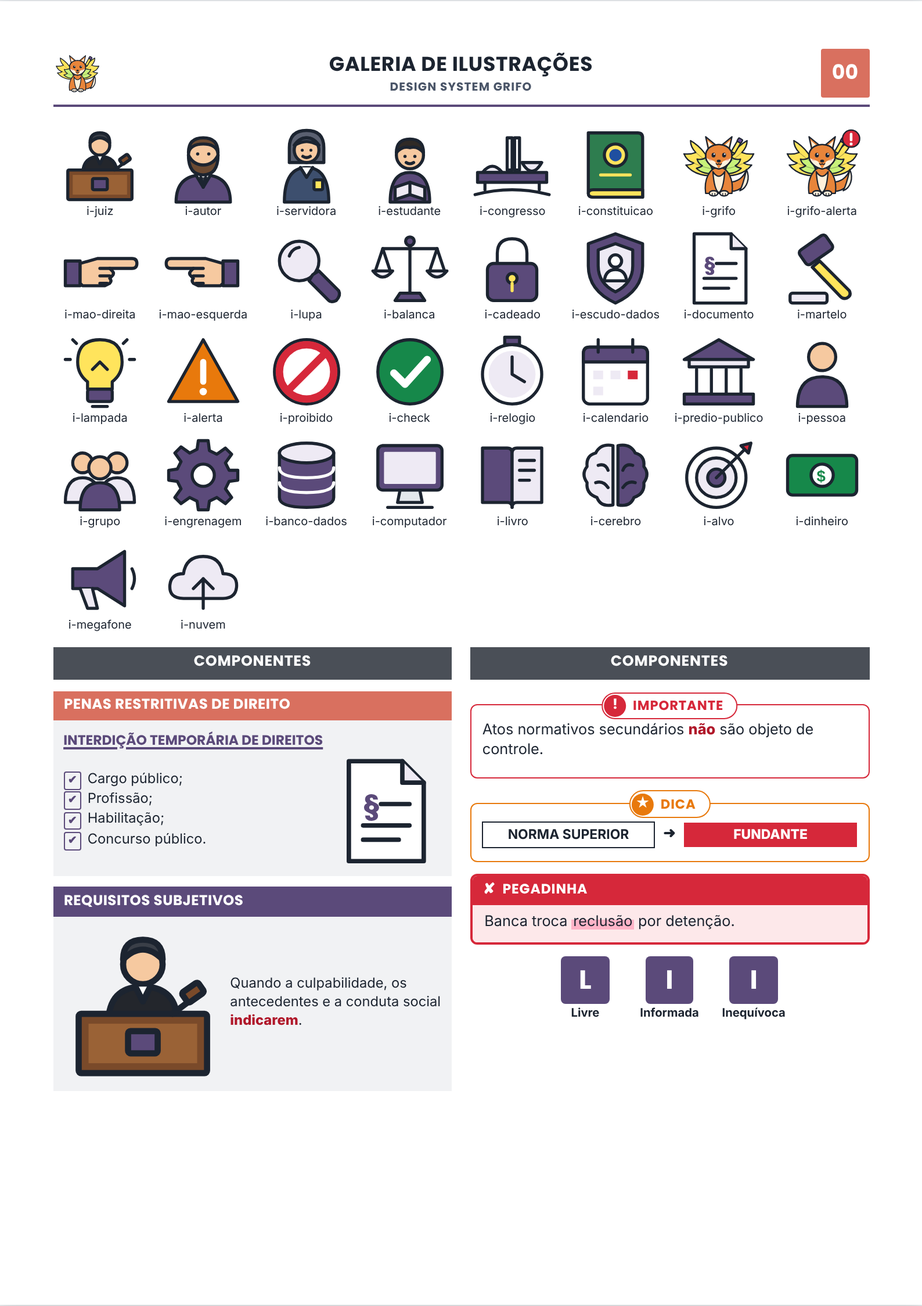
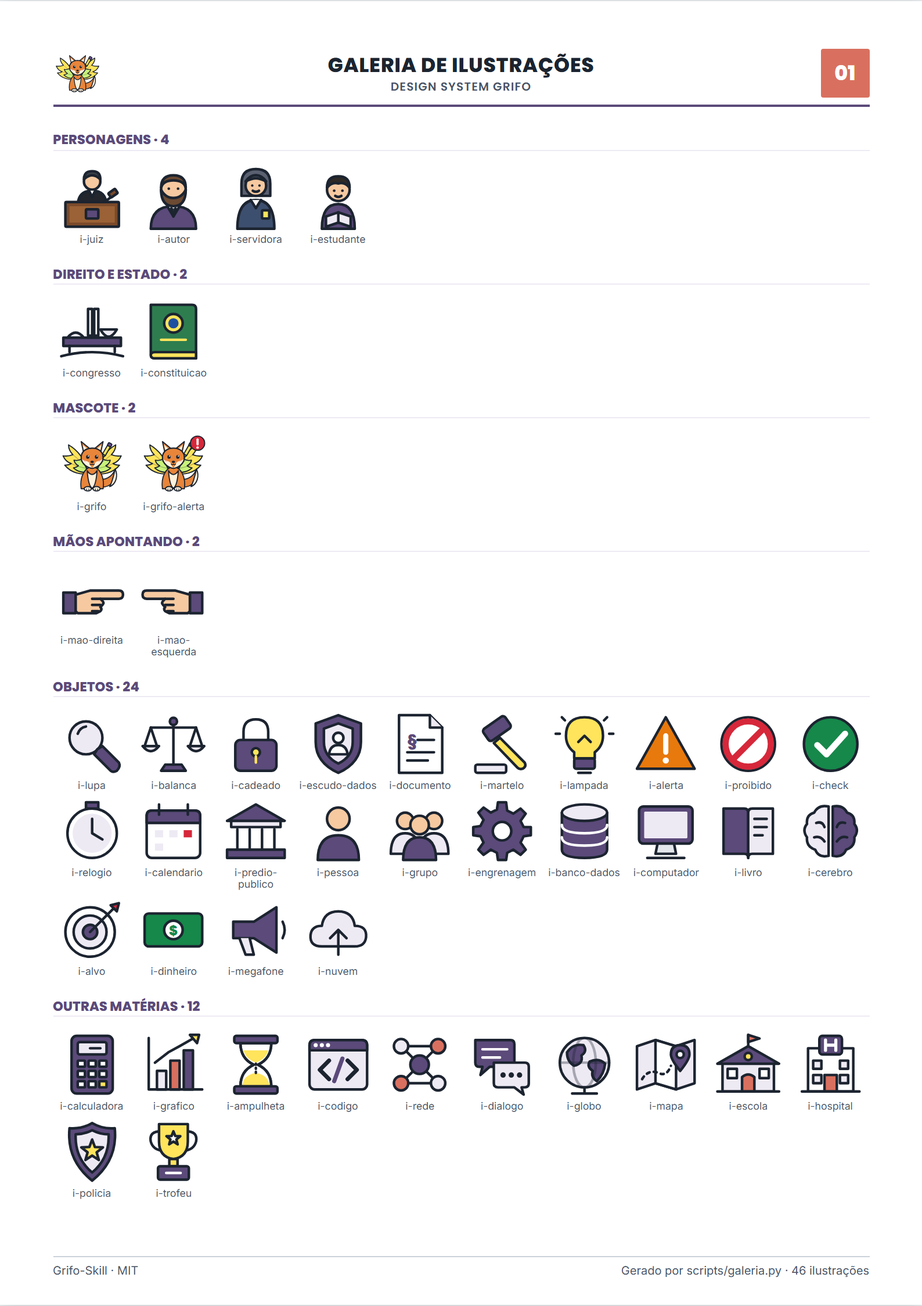
feat(scripts): galeria.py gera a galeria a partir dos símbolos do sprite
Substitui o galeria-fonte.html escrito à mão (que já saiu duplicado).
Folha 1 = ilustrações agrupadas por seção; folha 2 = componentes.
Atualiza docs/galeria.png e cria docs/galeria-componentes.png.

diff --git a/exemplos/galeria.html b/exemplos/galeria.html
@@ -1,4 +1,5 @@
 <!doctype html><html lang="pt-BR"><head><meta charset="utf-8"><title>Galeria Grifo</title>
+<!-- GERADO POR scripts/galeria.py — não editar à mão -->
 <link rel="preconnect" href="https://fonts.googleapis.com"><link href="https://fonts.googleapis.com/css2?family=Inter:wght@400;600;700;800&family=Poppins:wght@600;700;800;900&display=swap" rel="stylesheet">
 <style>
 /* =====================================================================
@@ -495,13 +496,20 @@ table.rotulada td:first-child { background: #FBE7EA; color: #7A2230; font-weight
 .piramide-legenda li { display: flex; gap: 1.5mm; align-items: center; }
 .piramide-legenda li i { width: 3mm; height: 3mm; border-radius: 50%; flex: none; }
 
-</style></head><body class="d-penal"><svg xmlns="http://www.w3.org/2000/svg" class="sprite" aria-hidden="true"><defs><style>
+</style>
+<style>
+.gal-grupo{font-family:var(--fonte-titulo);font-weight:800;font-size:8.5pt;text-transform:uppercase;color:var(--disc);border-bottom:1.5px solid var(--disc-claro);margin-top:1.5mm}
+.gal{display:grid;grid-template-columns:repeat(10,minmax(0,1fr));gap:1.6mm 1mm}
+.gal div{text-align:center;font-size:6.6pt;color:var(--tinta-2);overflow-wrap:anywhere;line-height:1.15}
+.gal svg{width:15mm;height:15mm;display:block;margin:0 auto .6mm}
+</style>
+</head><body class="d-penal"><svg xmlns="http://www.w3.org/2000/svg" class="sprite" aria-hidden="true"><defs><style>
       .k{fill:none;stroke:#1C2430;stroke-width:2.5;stroke-linecap:round;stroke-linejoin:round}
       .kf{stroke:#1C2430;stroke-width:2.5;stroke-linecap:round;stroke-linejoin:round}
       .pele{fill:#F6C9A0}.amarelo{fill:#FFE45C}.branco{fill:#fff}.cinza{fill:#E3E7EC}
       .verm{fill:#D6283A}
       .g-o{stroke:#1C2430;stroke-width:4;stroke-linecap:round;stroke-linejoin:round}.g-raposa{fill:#E8853A}.g-creme{fill:#FFF1DC}.g-mt{fill:#FFE45C}.g-mt2{fill:#C8F27A}.g-roxo{fill:#6A4C93}.g-tinta{fill:#1C2430}
-      .f-disc{fill:var(--disc,#44607A)}.f-claro{fill:var(--disc-claro,#E8EEF3)}.f-disc2{fill:var(--disc-2,#E8897A)}
+      .f-disc{fill:var(--disc,#44607A)}.s-disc{stroke:var(--disc,#44607A)}.f-claro{fill:var(--disc-claro,#E8EEF3)}.f-disc2{fill:var(--disc-2,#E8897A)}
       .t-disc{fill:var(--disc,#44607A);font-family:Poppins,sans-serif;font-weight:800}.verde{fill:#16884A}.lar{fill:#E8790C}
     </style></defs><symbol id="i-grifo" viewBox="0 0 240 240">
   <g>
@@ -743,22 +751,102 @@ table.rotulada td:first-child { background: #FBE7EA; color: #7A2230; font-weight
   </symbol><symbol id="i-nuvem" viewBox="0 0 64 64">
     <path class="kf f-claro" d="M16 48 Q4 48 5 37 Q6 28 16 28 Q18 14 32 14 Q46 14 48 28 Q60 28 59 39 Q58 48 48 48 Z"/>
     <path class="k" d="M24 40 L32 32 L40 40 M32 32 L32 56"/>
+  </symbol><symbol id="i-calculadora" viewBox="0 0 64 64">
+    <rect class="kf f-disc" x="12" y="4" width="40" height="56" rx="5"/>
+    <rect class="kf f-claro" x="18" y="10" width="28" height="12" rx="2"/>
+    <path class="k" d="M30 16 L40 16"/>
+    <rect class="kf branco" x="18" y="28" width="7" height="6" rx="1"/><rect class="kf branco" x="28.5" y="28" width="7" height="6" rx="1"/><rect class="kf branco" x="39" y="28" width="7" height="6" rx="1"/>
+    <rect class="kf branco" x="18" y="38" width="7" height="6" rx="1"/><rect class="kf branco" x="28.5" y="38" width="7" height="6" rx="1"/><rect class="kf branco" x="39" y="38" width="7" height="6" rx="1"/>
+    <rect class="kf branco" x="18" y="48" width="7" height="6" rx="1"/><rect class="kf branco" x="28.5" y="48" width="7" height="6" rx="1"/><rect class="kf amarelo" x="39" y="48" width="7" height="6" rx="1"/>
+  </symbol><symbol id="i-grafico" viewBox="0 0 64 64">
+    <rect class="kf f-claro" x="16" y="38" width="9" height="18"/>
+    <rect class="kf f-disc2" x="29" y="28" width="9" height="28"/>
+    <rect class="kf f-disc" x="42" y="18" width="9" height="38"/>
+    <path class="k" d="M8 6 L8 56 L60 56"/>
+    <path class="k" d="M14 30 L27 20 L38 14 L52 6"/>
+    <path class="kf amarelo" d="M48 3 L57 3 L55 11 Z"/>
+  </symbol><symbol id="i-ampulheta" viewBox="0 0 64 64">
+    <path class="kf branco" d="M17 11 L47 11 Q47 26 34 32 Q47 38 47 53 L17 53 Q17 38 30 32 Q17 26 17 11 Z"/>
+    <path class="amarelo" d="M20 18 L44 18 Q42 26 32 30 Q22 26 20 18 Z"/>
+    <path class="amarelo" d="M19 52 Q20 42 32 40 Q44 42 45 52 Z"/>
+    <path class="k" d="M32 31 L32 40" style="stroke-dasharray:1 3"/>
+    <path class="k" d="M17 11 L47 11 Q47 26 34 32 Q47 38 47 53 L17 53 Q17 38 30 32 Q17 26 17 11 Z"/>
+    <rect class="kf f-disc" x="11" y="4" width="42" height="7" rx="2"/>
+    <rect class="kf f-disc" x="11" y="53" width="42" height="7" rx="2"/>
+  </symbol><symbol id="i-codigo" viewBox="0 0 64 64">
+    <rect class="kf f-claro" x="4" y="8" width="56" height="48" rx="5"/>
+    <path class="kf f-disc" d="M4 13 Q4 8 9 8 L55 8 Q60 8 60 13 L60 18 L4 18 Z"/>
+    <circle class="branco" cx="10" cy="13" r="2"/><circle class="branco" cx="16" cy="13" r="2"/><circle class="branco" cx="22" cy="13" r="2"/>
+    <path class="k" d="M23 28 L14 37 L23 46" style="stroke-width:4"/>
+    <path class="k" d="M41 28 L50 37 L41 46" style="stroke-width:4"/>
+    <path class="k s-disc" d="M36 26 L28 48" style="stroke-width:4"/>
+  </symbol><symbol id="i-rede" viewBox="0 0 64 64">
+    <path class="k" d="M32 32 L14 14 M32 32 L50 14 M32 32 L14 50 M32 32 L50 50 M14 14 L50 14 M14 50 L50 50"/>
+    <circle class="kf f-disc" cx="32" cy="32" r="9"/>
+    <circle class="kf f-claro" cx="14" cy="14" r="7"/><circle class="kf f-disc2" cx="50" cy="14" r="7"/>
+    <circle class="kf f-disc2" cx="14" cy="50" r="7"/><circle class="kf f-claro" cx="50" cy="50" r="7"/>
+  </symbol><symbol id="i-dialogo" viewBox="0 0 64 64">
+    <path class="kf f-disc" d="M6 8 L40 8 Q44 8 44 12 L44 30 Q44 34 40 34 L20 34 L11 42 L13 34 L10 34 Q6 34 6 30 Z"/>
+    <path class="k" d="M13 17 L37 17 M13 25 L30 25" style="stroke:#fff"/>
+    <path class="kf f-claro" d="M24 30 L54 30 Q58 30 58 34 L58 50 Q58 54 54 54 L51 54 L53 61 L44 54 L28 54 Q24 54 24 50 Z"/>
+    <circle cx="33" cy="42" r="2.6" fill="#1C2430"/><circle cx="41" cy="42" r="2.6" fill="#1C2430"/><circle cx="49" cy="42" r="2.6" fill="#1C2430"/>
+  </symbol><symbol id="i-globo" viewBox="0 0 64 64">
+    <circle class="kf f-claro" cx="32" cy="30" r="24"/>
+    <path class="kf f-disc" d="M15 20 Q21 11 31 13 Q35 19 29 23 Q31 31 22 33 Q15 29 15 20 Z"/>
+    <path class="kf f-disc" d="M37 29 Q46 25 52 31 Q51 41 44 48 Q38 44 40 38 Q34 34 37 29 Z"/>
+    <ellipse class="k" cx="32" cy="30" rx="11" ry="24" style="opacity:.35"/>
+    <path class="k" d="M8 30 L56 30" style="opacity:.35"/>
+    <path class="k" d="M32 54 L32 60 M20 60 L44 60"/>
+  </symbol><symbol id="i-mapa" viewBox="0 0 64 64">
+    <path class="kf f-claro" d="M4 14 L22 8 L42 14 L60 8 L60 50 L42 56 L22 50 L4 56 Z"/>
+    <path class="kf branco" d="M22 8 L42 14 L42 56 L22 50 Z"/>
+    <path class="k" d="M9 46 Q15 36 25 40 Q33 44 37 33" style="stroke-dasharray:3 4"/>
+    <path class="kf f-disc" d="M46 38 Q37 27 37 22 Q37 13 46 13 Q55 13 55 22 Q55 27 46 38 Z"/>
+    <circle class="kf branco" cx="46" cy="22" r="3.5"/>
+  </symbol><symbol id="i-escola" viewBox="0 0 64 64">
+    <path class="k" d="M32 14 L32 3"/><path class="kf f-disc2" d="M32 3 L43 6.5 L32 10 Z"/>
+    <rect class="kf f-claro" x="7" y="29" width="50" height="29"/>
+    <path class="kf f-disc" d="M2 31 L32 14 L62 31 Z"/>
+    <circle class="kf amarelo" cx="32" cy="24" r="3.5"/>
+    <rect class="kf branco" x="12" y="36" width="9" height="9"/><rect class="kf branco" x="43" y="36" width="9" height="9"/>
+    <path class="kf f-disc2" d="M26 58 L26 44 Q32 39 38 44 L38 58 Z"/>
+    <path class="k" d="M2 58 L62 58"/>
+  </symbol><symbol id="i-hospital" viewBox="0 0 64 64">
+    <rect class="kf branco" x="10" y="16" width="44" height="42"/>
+    <rect class="kf f-disc" x="21" y="4" width="22" height="18" rx="3"/>
+    <path class="k" d="M27 8 L27 18 M37 8 L37 18 M27 13 L37 13" style="stroke:#fff;stroke-width:3"/>
+    <rect class="kf f-claro" x="15" y="28" width="8" height="8"/><rect class="kf f-claro" x="41" y="28" width="8" height="8"/>
+    <rect class="kf f-claro" x="15" y="42" width="8" height="8"/><rect class="kf f-claro" x="41" y="42" width="8" height="8"/>
+    <path class="kf f-disc2" d="M26 58 L26 42 L38 42 L38 58 Z"/>
+    <path class="k" d="M4 58 L60 58"/>
+  </symbol><symbol id="i-policia" viewBox="0 0 64 64">
+    <path class="kf f-disc" d="M32 4 Q42 10 54 9 Q57 40 32 60 Q7 40 10 9 Q22 10 32 4 Z"/>
+    <path class="kf f-claro" d="M32 11 Q40 15 48 15 Q49 38 32 52 Q15 38 16 15 Q24 15 32 11 Z"/>
+    <path class="kf amarelo" d="M32.0 20.0 L34.7 27.3 L42.5 27.6 L36.4 32.4 L38.5 39.9 L32.0 35.6 L25.5 39.9 L27.6 32.4 L21.5 27.6 L29.3 27.3 Z"/>
+  </symbol><symbol id="i-trofeu" viewBox="0 0 64 64">
+    <path class="k" d="M20 12 Q8 12 10 22 Q12 30 22 31 M44 12 Q56 12 54 22 Q52 30 42 31"/>
+    <path class="kf amarelo" d="M18 5 L46 5 L46 22 Q46 37 32 39 Q18 37 18 22 Z"/>
+    <path class="kf branco" d="M32.0 12.0 L33.8 16.6 L38.7 16.8 L34.9 19.9 L36.1 24.7 L32.0 22.0 L27.9 24.7 L29.1 19.9 L25.3 16.8 L30.2 16.6 Z"/>
+    <rect class="kf amarelo" x="28" y="39" width="8" height="7"/>
+    <rect class="kf f-disc" x="17" y="46" width="30" height="13" rx="2"/>
+    <path class="k" d="M25 52.5 L39 52.5" style="stroke:#fff"/>
   </symbol></svg>
-<div class="folha">
-<div class="topo"><div class="logo"><svg><use href="#i-grifo"/></svg></div><div class="titulo-topo">Galeria de ilustrações<small>design system grifo</small></div><div class="pag">00</div></div>
-<div style="display:grid;grid-template-columns:repeat(8,1fr);gap:2mm"><div style="text-align:center;font-size:7.5pt"><svg class="ilustra" style="margin:auto"><use href="#i-juiz"/></svg>i-juiz</div><div style="text-align:center;font-size:7.5pt"><svg class="ilustra" style="margin:auto"><use href="#i-autor"/></svg>i-autor</div><div style="text-align:center;font-size:7.5pt"><svg class="ilustra" style="margin:auto"><use href="#i-servidora"/></svg>i-servidora</div><div style="text-align:center;font-size:7.5pt"><svg class="ilustra" style="margin:auto"><use href="#i-estudante"/></svg>i-estudante</div><div style="text-align:center;font-size:7.5pt"><svg class="ilustra" style="margin:auto"><use href="#i-congresso"/></svg>i-congresso</div><div style="text-align:center;font-size:7.5pt"><svg class="ilustra" style="margin:auto"><use href="#i-constituicao"/></svg>i-constituicao</div><div style="text-align:center;font-size:7.5pt"><svg class="ilustra" style="margin:auto"><use href="#i-grifo"/></svg>i-grifo</div><div style="text-align:center;font-size:7.5pt"><svg class="ilustra" style="margin:auto"><use href="#i-grifo-alerta"/></svg>i-grifo-alerta</div><div style="text-align:center;font-size:7.5pt"><svg class="ilustra" style="margin:auto"><use href="#i-mao-direita"/></svg>i-mao-direita</div><div style="text-align:center;font-size:7.5pt"><svg class="ilustra" style="margin:auto"><use href="#i-mao-esquerda"/></svg>i-mao-esquerda</div><div style="text-align:center;font-size:7.5pt"><svg class="ilustra" style="margin:auto"><use href="#i-lupa"/></svg>i-lupa</div><div style="text-align:center;font-size:7.5pt"><svg class="ilustra" style="margin:auto"><use href="#i-balanca"/></svg>i-balanca</div><div style="text-align:center;font-size:7.5pt"><svg class="ilustra" style="margin:auto"><use href="#i-cadeado"/></svg>i-cadeado</div><div style="text-align:center;font-size:7.5pt"><svg class="ilustra" style="margin:auto"><use href="#i-escudo-dados"/></svg>i-escudo-dados</div><div style="text-align:center;font-size:7.5pt"><svg class="ilustra" style="margin:auto"><use href="#i-documento"/></svg>i-documento</div><div style="text-align:center;font-size:7.5pt"><svg class="ilustra" style="margin:auto"><use href="#i-martelo"/></svg>i-martelo</div><div style="text-align:center;font-size:7.5pt"><svg class="ilustra" style="margin:auto"><use href="#i-lampada"/></svg>i-lampada</div><div style="text-align:center;font-size:7.5pt"><svg class="ilustra" style="margin:auto"><use href="#i-alerta"/></svg>i-alerta</div><div style="text-align:center;font-size:7.5pt"><svg class="ilustra" style="margin:auto"><use href="#i-proibido"/></svg>i-proibido</div><div style="text-align:center;font-size:7.5pt"><svg class="ilustra" style="margin:auto"><use href="#i-check"/></svg>i-check</div><div style="text-align:center;font-size:7.5pt"><svg class="ilustra" style="margin:auto"><use href="#i-relogio"/></svg>i-relogio</div><div style="text-align:center;font-size:7.5pt"><svg class="ilustra" style="margin:auto"><use href="#i-calendario"/></svg>i-calendario</div><div style="text-align:center;font-size:7.5pt"><svg class="ilustra" style="margin:auto"><use href="#i-predio-publico"/></svg>i-predio-publico</div><div style="text-align:center;font-size:7.5pt"><svg class="ilustra" style="margin:auto"><use href="#i-pessoa"/></svg>i-pessoa</div><div style="text-align:center;font-size:7.5pt"><svg class="ilustra" style="margin:auto"><use href="#i-grupo"/></svg>i-grupo</div><div style="text-align:center;font-size:7.5pt"><svg class="ilustra" style="margin:auto"><use href="#i-engrenagem"/></svg>i-engrenagem</div><div style="text-align:center;font-size:7.5pt"><svg class="ilustra" style="margin:auto"><use href="#i-banco-dados"/></svg>i-banco-dados</div><div style="text-align:center;font-size:7.5pt"><svg class="ilustra" style="margin:auto"><use href="#i-computador"/></svg>i-computador</div><div style="text-align:center;font-size:7.5pt"><svg class="ilustra" style="margin:auto"><use href="#i-livro"/></svg>i-livro</div><div style="text-align:center;font-size:7.5pt"><svg class="ilustra" style="margin:auto"><use href="#i-cerebro"/></svg>i-cerebro</div><div style="text-align:center;font-size:7.5pt"><svg class="ilustra" style="margin:auto"><use href="#i-alvo"/></svg>i-alvo</div><div style="text-align:center;font-size:7.5pt"><svg class="ilustra" style="margin:auto"><use href="#i-dinheiro"/></svg>i-dinheiro</div><div style="text-align:center;font-size:7.5pt"><svg class="ilustra" style="margin:auto"><use href="#i-megafone"/></svg>i-megafone</div><div style="text-align:center;font-size:7.5pt"><svg class="ilustra" style="margin:auto"><use href="#i-nuvem"/></svg>i-nuvem</div></div>
+<div class="folha"><div class="topo"><div class="logo"><svg viewBox="0 0 64 64"><use href="#i-grifo"/></svg></div><div class="titulo-topo">Galeria de ilustrações<small>design system grifo</small></div><div class="pag">01</div></div><div class="gal-grupo">PERSONAGENS · 4</div><div class="gal"><div><svg><use href="#i-juiz"/></svg>i-juiz</div><div><svg><use href="#i-autor"/></svg>i-autor</div><div><svg><use href="#i-servidora"/></svg>i-servidora</div><div><svg><use href="#i-estudante"/></svg>i-estudante</div></div><div class="gal-grupo">DIREITO E ESTADO · 2</div><div class="gal"><div><svg><use href="#i-congresso"/></svg>i-congresso</div><div><svg><use href="#i-constituicao"/></svg>i-constituicao</div></div><div class="gal-grupo">MASCOTE · 2</div><div class="gal"><div><svg><use href="#i-grifo"/></svg>i-grifo</div><div><svg><use href="#i-grifo-alerta"/></svg>i-grifo-alerta</div></div><div class="gal-grupo">mãos apontando · 2</div><div class="gal"><div><svg><use href="#i-mao-direita"/></svg>i-mao-direita</div><div><svg><use href="#i-mao-esquerda"/></svg>i-mao-esquerda</div></div><div class="gal-grupo">objetos · 24</div><div class="gal"><div><svg><use href="#i-lupa"/></svg>i-lupa</div><div><svg><use href="#i-balanca"/></svg>i-balanca</div><div><svg><use href="#i-cadeado"/></svg>i-cadeado</div><div><svg><use href="#i-escudo-dados"/></svg>i-escudo-dados</div><div><svg><use href="#i-documento"/></svg>i-documento</div><div><svg><use href="#i-martelo"/></svg>i-martelo</div><div><svg><use href="#i-lampada"/></svg>i-lampada</div><div><svg><use href="#i-alerta"/></svg>i-alerta</div><div><svg><use href="#i-proibido"/></svg>i-proibido</div><div><svg><use href="#i-check"/></svg>i-check</div><div><svg><use href="#i-relogio"/></svg>i-relogio</div><div><svg><use href="#i-calendario"/></svg>i-calendario</div><div><svg><use href="#i-predio-publico"/></svg>i-predio-publico</div><div><svg><use href="#i-pessoa"/></svg>i-pessoa</div><div><svg><use href="#i-grupo"/></svg>i-grupo</div><div><svg><use href="#i-engrenagem"/></svg>i-engrenagem</div><div><svg><use href="#i-banco-dados"/></svg>i-banco-dados</div><div><svg><use href="#i-computador"/></svg>i-computador</div><div><svg><use href="#i-livro"/></svg>i-livro</div><div><svg><use href="#i-cerebro"/></svg>i-cerebro</div><div><svg><use href="#i-alvo"/></svg>i-alvo</div><div><svg><use href="#i-dinheiro"/></svg>i-dinheiro</div><div><svg><use href="#i-megafone"/></svg>i-megafone</div><div><svg><use href="#i-nuvem"/></svg>i-nuvem</div></div><div class="gal-grupo">OUTRAS MATÉRIAS · 12</div><div class="gal"><div><svg><use href="#i-calculadora"/></svg>i-calculadora</div><div><svg><use href="#i-grafico"/></svg>i-grafico</div><div><svg><use href="#i-ampulheta"/></svg>i-ampulheta</div><div><svg><use href="#i-codigo"/></svg>i-codigo</div><div><svg><use href="#i-rede"/></svg>i-rede</div><div><svg><use href="#i-dialogo"/></svg>i-dialogo</div><div><svg><use href="#i-globo"/></svg>i-globo</div><div><svg><use href="#i-mapa"/></svg>i-mapa</div><div><svg><use href="#i-escola"/></svg>i-escola</div><div><svg><use href="#i-hospital"/></svg>i-hospital</div><div><svg><use href="#i-policia"/></svg>i-policia</div><div><svg><use href="#i-trofeu"/></svg>i-trofeu</div></div><div class="rodape-folha"><span>Grifo-Skill · MIT</span><span>Gerado por scripts/galeria.py · 46 ilustrações</span></div></div>
+<div class="folha"><div class="topo"><div class="logo"><svg viewBox="0 0 64 64"><use href="#i-grifo"/></svg></div><div class="titulo-topo">Galeria de componentes<small>design system grifo</small></div><div class="pag">02</div></div>
 <div class="apostila-colunas">
- <div class="coluna"><div class="coluna-cab">Componentes</div>
+ <div class="coluna"><div class="coluna-cab">Blocos e listas</div>
   <div class="bloco"><div class="faixa">Penas restritivas de direito</div><div class="corpo">
    <div class="sub">Interdição temporária de direitos</div>
    <div class="com-ilustra"><ul class="check"><li>Cargo público;</li><li>Profissão;</li><li>Habilitação;</li><li>Concurso público.</li></ul><svg class="ilustra g"><use href="#i-documento"/></svg></div>
   </div></div>
   <div class="bloco primaria"><div class="faixa">Requisitos subjetivos</div><div class="corpo"><div class="com-ilustra esq"><svg class="ilustra gg"><use href="#i-juiz"/></svg><p>Quando a culpabilidade, os antecedentes e a conduta social <span class="chave-v">indicarem</span>.</p></div></div></div>
  </div>
- <div class="coluna"><div class="coluna-cab">Componentes</div>
+ <div class="coluna"><div class="coluna-cab">Destaques</div>
   <div class="tag-caixa"><span class="tag">Importante</span><p>Atos normativos secundários <span class="chave-v">não</span> são objeto de controle.</p></div>
   <div class="tag-caixa dica"><span class="tag dica">Dica</span><div class="relacao"><div class="de">Norma superior</div><div class="seta">➜</div><div class="para">Fundante</div></div></div>
   <div class="caixa pegadinha"><div class="rotulo">Pegadinha</div><div class="corpo">Banca troca <mark class="troca">reclusão</mark> por detenção.</div></div>
   <div class="sigla"><div class="letra"><b>L</b><span>Livre</span></div><div class="letra"><b>I</b><span>Informada</span></div><div class="letra"><b>I</b><span>Inequívoca</span></div></div>
  </div>
-</div></div></body></html>
+</div>
+<div class="rodape-folha"><span>Grifo-Skill · MIT</span><span>Gerado por scripts/galeria.py · 46 ilustrações</span></div></div>
+</body></html>

diff --git a/exemplos/galeria-fonte.html b/exemplos/galeria-fonte.html
@@ -1,21 +1,30 @@
 <!doctype html><html lang="pt-BR"><head><meta charset="utf-8"><title>Galeria Grifo</title>
+<!-- GERADO POR scripts/galeria.py — não editar à mão -->
 <link rel="preconnect" href="https://fonts.googleapis.com"><link href="https://fonts.googleapis.com/css2?family=Inter:wght@400;600;700;800&family=Poppins:wght@600;700;800;900&display=swap" rel="stylesheet">
-<!--APOSTILA:CSS--></head><body class="d-penal"><!--APOSTILA:SPRITE-->
-<div class="folha">
-<div class="topo"><div class="logo"><svg><use href="#i-grifo"/></svg></div><div class="titulo-topo">Galeria de ilustrações<small>design system grifo</small></div><div class="pag">00</div></div>
-<div style="display:grid;grid-template-columns:repeat(8,1fr);gap:2mm"><div style="text-align:center;font-size:7.5pt"><svg class="ilustra" style="margin:auto"><use href="#i-juiz"/></svg>i-juiz</div><div style="text-align:center;font-size:7.5pt"><svg class="ilustra" style="margin:auto"><use href="#i-autor"/></svg>i-autor</div><div style="text-align:center;font-size:7.5pt"><svg class="ilustra" style="margin:auto"><use href="#i-servidora"/></svg>i-servidora</div><div style="text-align:center;font-size:7.5pt"><svg class="ilustra" style="margin:auto"><use href="#i-estudante"/></svg>i-estudante</div><div style="text-align:center;font-size:7.5pt"><svg class="ilustra" style="margin:auto"><use href="#i-congresso"/></svg>i-congresso</div><div style="text-align:center;font-size:7.5pt"><svg class="ilustra" style="margin:auto"><use href="#i-constituicao"/></svg>i-constituicao</div><div style="text-align:center;font-size:7.5pt"><svg class="ilustra" style="margin:auto"><use href="#i-grifo"/></svg>i-grifo</div><div style="text-align:center;font-size:7.5pt"><svg class="ilustra" style="margin:auto"><use href="#i-grifo-alerta"/></svg>i-grifo-alerta</div><div style="text-align:center;font-size:7.5pt"><svg class="ilustra" style="margin:auto"><use href="#i-mao-direita"/></svg>i-mao-direita</div><div style="text-align:center;font-size:7.5pt"><svg class="ilustra" style="margin:auto"><use href="#i-mao-esquerda"/></svg>i-mao-esquerda</div><div style="text-align:center;font-size:7.5pt"><svg class="ilustra" style="margin:auto"><use href="#i-lupa"/></svg>i-lupa</div><div style="text-align:center;font-size:7.5pt"><svg class="ilustra" style="margin:auto"><use href="#i-balanca"/></svg>i-balanca</div><div style="text-align:center;font-size:7.5pt"><svg class="ilustra" style="margin:auto"><use href="#i-cadeado"/></svg>i-cadeado</div><div style="text-align:center;font-size:7.5pt"><svg class="ilustra" style="margin:auto"><use href="#i-escudo-dados"/></svg>i-escudo-dados</div><div style="text-align:center;font-size:7.5pt"><svg class="ilustra" style="margin:auto"><use href="#i-documento"/></svg>i-documento</div><div style="text-align:center;font-size:7.5pt"><svg class="ilustra" style="margin:auto"><use href="#i-martelo"/></svg>i-martelo</div><div style="text-align:center;font-size:7.5pt"><svg class="ilustra" style="margin:auto"><use href="#i-lampada"/></svg>i-lampada</div><div style="text-align:center;font-size:7.5pt"><svg class="ilustra" style="margin:auto"><use href="#i-alerta"/></svg>i-alerta</div><div style="text-align:center;font-size:7.5pt"><svg class="ilustra" style="margin:auto"><use href="#i-proibido"/></svg>i-proibido</div><div style="text-align:center;font-size:7.5pt"><svg class="ilustra" style="margin:auto"><use href="#i-check"/></svg>i-check</div><div style="text-align:center;font-size:7.5pt"><svg class="ilustra" style="margin:auto"><use href="#i-relogio"/></svg>i-relogio</div><div style="text-align:center;font-size:7.5pt"><svg class="ilustra" style="margin:auto"><use href="#i-calendario"/></svg>i-calendario</div><div style="text-align:center;font-size:7.5pt"><svg class="ilustra" style="margin:auto"><use href="#i-predio-publico"/></svg>i-predio-publico</div><div style="text-align:center;font-size:7.5pt"><svg class="ilustra" style="margin:auto"><use href="#i-pessoa"/></svg>i-pessoa</div><div style="text-align:center;font-size:7.5pt"><svg class="ilustra" style="margin:auto"><use href="#i-grupo"/></svg>i-grupo</div><div style="text-align:center;font-size:7.5pt"><svg class="ilustra" style="margin:auto"><use href="#i-engrenagem"/></svg>i-engrenagem</div><div style="text-align:center;font-size:7.5pt"><svg class="ilustra" style="margin:auto"><use href="#i-banco-dados"/></svg>i-banco-dados</div><div style="text-align:center;font-size:7.5pt"><svg class="ilustra" style="margin:auto"><use href="#i-computador"/></svg>i-computador</div><div style="text-align:center;font-size:7.5pt"><svg class="ilustra" style="margin:auto"><use href="#i-livro"/></svg>i-livro</div><div style="text-align:center;font-size:7.5pt"><svg class="ilustra" style="margin:auto"><use href="#i-cerebro"/></svg>i-cerebro</div><div style="text-align:center;font-size:7.5pt"><svg class="ilustra" style="margin:auto"><use href="#i-alvo"/></svg>i-alvo</div><div style="text-align:center;font-size:7.5pt"><svg class="ilustra" style="margin:auto"><use href="#i-dinheiro"/></svg>i-dinheiro</div><div style="text-align:center;font-size:7.5pt"><svg class="ilustra" style="margin:auto"><use href="#i-megafone"/></svg>i-megafone</div><div style="text-align:center;font-size:7.5pt"><svg class="ilustra" style="margin:auto"><use href="#i-nuvem"/></svg>i-nuvem</div></div>
+<!--APOSTILA:CSS-->
+<style>
+.gal-grupo{font-family:var(--fonte-titulo);font-weight:800;font-size:8.5pt;text-transform:uppercase;color:var(--disc);border-bottom:1.5px solid var(--disc-claro);margin-top:1.5mm}
+.gal{display:grid;grid-template-columns:repeat(10,minmax(0,1fr));gap:1.6mm 1mm}
+.gal div{text-align:center;font-size:6.6pt;color:var(--tinta-2);overflow-wrap:anywhere;line-height:1.15}
+.gal svg{width:15mm;height:15mm;display:block;margin:0 auto .6mm}
+</style>
+</head><body class="d-penal"><!--APOSTILA:SPRITE-->
+<div class="folha"><div class="topo"><div class="logo"><svg viewBox="0 0 64 64"><use href="#i-grifo"/></svg></div><div class="titulo-topo">Galeria de ilustrações<small>design system grifo</small></div><div class="pag">01</div></div><div class="gal-grupo">PERSONAGENS · 4</div><div class="gal"><div><svg><use href="#i-juiz"/></svg>i-juiz</div><div><svg><use href="#i-autor"/></svg>i-autor</div><div><svg><use href="#i-servidora"/></svg>i-servidora</div><div><svg><use href="#i-estudante"/></svg>i-estudante</div></div><div class="gal-grupo">DIREITO E ESTADO · 2</div><div class="gal"><div><svg><use href="#i-congresso"/></svg>i-congresso</div><div><svg><use href="#i-constituicao"/></svg>i-constituicao</div></div><div class="gal-grupo">MASCOTE · 2</div><div class="gal"><div><svg><use href="#i-grifo"/></svg>i-grifo</div><div><svg><use href="#i-grifo-alerta"/></svg>i-grifo-alerta</div></div><div class="gal-grupo">mãos apontando · 2</div><div class="gal"><div><svg><use href="#i-mao-direita"/></svg>i-mao-direita</div><div><svg><use href="#i-mao-esquerda"/></svg>i-mao-esquerda</div></div><div class="gal-grupo">objetos · 24</div><div class="gal"><div><svg><use href="#i-lupa"/></svg>i-lupa</div><div><svg><use href="#i-balanca"/></svg>i-balanca</div><div><svg><use href="#i-cadeado"/></svg>i-cadeado</div><div><svg><use href="#i-escudo-dados"/></svg>i-escudo-dados</div><div><svg><use href="#i-documento"/></svg>i-documento</div><div><svg><use href="#i-martelo"/></svg>i-martelo</div><div><svg><use href="#i-lampada"/></svg>i-lampada</div><div><svg><use href="#i-alerta"/></svg>i-alerta</div><div><svg><use href="#i-proibido"/></svg>i-proibido</div><div><svg><use href="#i-check"/></svg>i-check</div><div><svg><use href="#i-relogio"/></svg>i-relogio</div><div><svg><use href="#i-calendario"/></svg>i-calendario</div><div><svg><use href="#i-predio-publico"/></svg>i-predio-publico</div><div><svg><use href="#i-pessoa"/></svg>i-pessoa</div><div><svg><use href="#i-grupo"/></svg>i-grupo</div><div><svg><use href="#i-engrenagem"/></svg>i-engrenagem</div><div><svg><use href="#i-banco-dados"/></svg>i-banco-dados</div><div><svg><use href="#i-computador"/></svg>i-computador</div><div><svg><use href="#i-livro"/></svg>i-livro</div><div><svg><use href="#i-cerebro"/></svg>i-cerebro</div><div><svg><use href="#i-alvo"/></svg>i-alvo</div><div><svg><use href="#i-dinheiro"/></svg>i-dinheiro</div><div><svg><use href="#i-megafone"/></svg>i-megafone</div><div><svg><use href="#i-nuvem"/></svg>i-nuvem</div></div><div class="gal-grupo">OUTRAS MATÉRIAS · 12</div><div class="gal"><div><svg><use href="#i-calculadora"/></svg>i-calculadora</div><div><svg><use href="#i-grafico"/></svg>i-grafico</div><div><svg><use href="#i-ampulheta"/></svg>i-ampulheta</div><div><svg><use href="#i-codigo"/></svg>i-codigo</div><div><svg><use href="#i-rede"/></svg>i-rede</div><div><svg><use href="#i-dialogo"/></svg>i-dialogo</div><div><svg><use href="#i-globo"/></svg>i-globo</div><div><svg><use href="#i-mapa"/></svg>i-mapa</div><div><svg><use href="#i-escola"/></svg>i-escola</div><div><svg><use href="#i-hospital"/></svg>i-hospital</div><div><svg><use href="#i-policia"/></svg>i-policia</div><div><svg><use href="#i-trofeu"/></svg>i-trofeu</div></div><div class="rodape-folha"><span>Grifo-Skill · MIT</span><span>Gerado por scripts/galeria.py · 46 ilustrações</span></div></div>
+<div class="folha"><div class="topo"><div class="logo"><svg viewBox="0 0 64 64"><use href="#i-grifo"/></svg></div><div class="titulo-topo">Galeria de componentes<small>design system grifo</small></div><div class="pag">02</div></div>
 <div class="apostila-colunas">
- <div class="coluna"><div class="coluna-cab">Componentes</div>
+ <div class="coluna"><div class="coluna-cab">Blocos e listas</div>
   <div class="bloco"><div class="faixa">Penas restritivas de direito</div><div class="corpo">
    <div class="sub">Interdição temporária de direitos</div>
    <div class="com-ilustra"><ul class="check"><li>Cargo público;</li><li>Profissão;</li><li>Habilitação;</li><li>Concurso público.</li></ul><svg class="ilustra g"><use href="#i-documento"/></svg></div>
   </div></div>
   <div class="bloco primaria"><div class="faixa">Requisitos subjetivos</div><div class="corpo"><div class="com-ilustra esq"><svg class="ilustra gg"><use href="#i-juiz"/></svg><p>Quando a culpabilidade, os antecedentes e a conduta social <span class="chave-v">indicarem</span>.</p></div></div></div>
  </div>
- <div class="coluna"><div class="coluna-cab">Componentes</div>
+ <div class="coluna"><div class="coluna-cab">Destaques</div>
   <div class="tag-caixa"><span class="tag">Importante</span><p>Atos normativos secundários <span class="chave-v">não</span> são objeto de controle.</p></div>
   <div class="tag-caixa dica"><span class="tag dica">Dica</span><div class="relacao"><div class="de">Norma superior</div><div class="seta">➜</div><div class="para">Fundante</div></div></div>
   <div class="caixa pegadinha"><div class="rotulo">Pegadinha</div><div class="corpo">Banca troca <mark class="troca">reclusão</mark> por detenção.</div></div>
   <div class="sigla"><div class="letra"><b>L</b><span>Livre</span></div><div class="letra"><b>I</b><span>Informada</span></div><div class="letra"><b>I</b><span>Inequívoca</span></div></div>
  </div>
-</div></div></body></html>
+</div>
+<div class="rodape-folha"><span>Grifo-Skill · MIT</span><span>Gerado por scripts/galeria.py · 46 ilustrações</span></div></div>
+</body></html>

diff --git a/skills/grifo/scripts/galeria.py b/skills/grifo/scripts/galeria.py
@@ -1,0 +1,119 @@
+#!/usr/bin/env python3
+"""Gera a galeria de ilustrações e componentes do Grifo-Skill.
+
+Uso:  python3 galeria.py [pasta_exemplos] [pasta_docs]
+      (padrão: <repo>/exemplos e <repo>/docs)
+
+1. Lê os <symbol> de assets/ilustracoes.svg (na ordem do arquivo, agrupados
+   pelos comentários de seção) e escreve exemplos/galeria-fonte.html —
+   nunca editar esse arquivo à mão: ele é sobrescrito.
+2. Monta (montar.py) -> exemplos/galeria.html.
+3. Renderiza (renderizar.py) e copia a folha 1 para docs/galeria.png e a
+   folha 2 para docs/galeria-componentes.png.
+Licença MIT.
+"""
+import html
+import re
+import shutil
+import subprocess
+import sys
+import tempfile
+from pathlib import Path
+
+AQUI = Path(__file__).resolve().parent
+SKILL = AQUI.parent
+REPO = SKILL.parent.parent
+SPRITE = SKILL / "assets" / "ilustracoes.svg"
+COLUNAS = 10
+
+CABECA = """<!doctype html><html lang="pt-BR"><head><meta charset="utf-8"><title>Galeria Grifo</title>
+<!-- GERADO POR scripts/galeria.py — não editar à mão -->
+<link rel="preconnect" href="https://fonts.googleapis.com"><link href="https://fonts.googleapis.com/css2?family=Inter:wght@400;600;700;800&family=Poppins:wght@600;700;800;900&display=swap" rel="stylesheet">
+<!--APOSTILA:CSS-->
+<style>
+.gal-grupo{font-family:var(--fonte-titulo);font-weight:800;font-size:8.5pt;text-transform:uppercase;color:var(--disc);border-bottom:1.5px solid var(--disc-claro);margin-top:1.5mm}
+.gal{display:grid;grid-template-columns:repeat(%(col)d,minmax(0,1fr));gap:1.6mm 1mm}
+.gal div{text-align:center;font-size:6.6pt;color:var(--tinta-2);overflow-wrap:anywhere;line-height:1.15}
+.gal svg{width:15mm;height:15mm;display:block;margin:0 auto .6mm}
+</style>
+</head><body class="d-penal"><!--APOSTILA:SPRITE-->
+"""
+
+TOPO = ('<div class="topo"><div class="logo"><svg viewBox="0 0 64 64"><use href="#i-grifo"/></svg></div>'
+        '<div class="titulo-topo">{titulo}<small>design system grifo</small></div><div class="pag">{n:02d}</div></div>')
+
+RODAPE = ('<div class="rodape-folha"><span>Grifo-Skill · MIT</span>'
+          '<span>Gerado por scripts/galeria.py · {n} ilustrações</span></div>')
+
+# Folha 2: amostra de componentes (atualize quando criar componente novo).
+COMPONENTES = """
+<div class="apostila-colunas">
+ <div class="coluna"><div class="coluna-cab">Blocos e listas</div>
+  <div class="bloco"><div class="faixa">Penas restritivas de direito</div><div class="corpo">
+   <div class="sub">Interdição temporária de direitos</div>
+   <div class="com-ilustra"><ul class="check"><li>Cargo público;</li><li>Profissão;</li><li>Habilitação;</li><li>Concurso público.</li></ul><svg class="ilustra g"><use href="#i-documento"/></svg></div>
+  </div></div>
+  <div class="bloco primaria"><div class="faixa">Requisitos subjetivos</div><div class="corpo"><div class="com-ilustra esq"><svg class="ilustra gg"><use href="#i-juiz"/></svg><p>Quando a culpabilidade, os antecedentes e a conduta social <span class="chave-v">indicarem</span>.</p></div></div></div>
+ </div>
+ <div class="coluna"><div class="coluna-cab">Destaques</div>
+  <div class="tag-caixa"><span class="tag">Importante</span><p>Atos normativos secundários <span class="chave-v">não</span> são objeto de controle.</p></div>
+  <div class="tag-caixa dica"><span class="tag dica">Dica</span><div class="relacao"><div class="de">Norma superior</div><div class="seta">➜</div><div class="para">Fundante</div></div></div>
+  <div class="caixa pegadinha"><div class="rotulo">Pegadinha</div><div class="corpo">Banca troca <mark class="troca">reclusão</mark> por detenção.</div></div>
+  <div class="sigla"><div class="letra"><b>L</b><span>Livre</span></div><div class="letra"><b>I</b><span>Informada</span></div><div class="letra"><b>I</b><span>Inequívoca</span></div></div>
+ </div>
+</div>
+"""
+
+
+def simbolos_por_grupo(svg: str):
+    """[(grupo, [ids])] na ordem do arquivo; grupo = texto do último comentário de seção."""
+    corpo = svg[svg.index("<svg"):]
+    grupos, atual = [], None
+    for m in re.finditer(r'<!--(.*?)-->|<symbol\s[^>]*\bid="([^"]+)"', corpo, re.S):
+        if m.group(1) is not None:
+            nome = re.split(r"[:(.]", m.group(1).strip())[0].strip()
+            if nome and not nome.lower().startswith("selo"):
+                atual = nome
+            continue
+        if not grupos or grupos[-1][0] != atual:
+            grupos.append((atual or "Outros", []))
+        grupos[-1][1].append(m.group(2))
+    return grupos
+
+
+def gerar_fonte() -> tuple[str, int]:
+    grupos = simbolos_por_grupo(SPRITE.read_text(encoding="utf-8"))
+    total = sum(len(ids) for _, ids in grupos)
+    partes = [CABECA % {"col": COLUNAS}]
+    partes.append('<div class="folha">' + TOPO.format(titulo="Galeria de ilustrações", n=1))
+    for grupo, ids in grupos:
+        partes.append(f'<div class="gal-grupo">{html.escape(grupo)} · {len(ids)}</div><div class="gal">')
+        partes += [f'<div><svg><use href="#{i}"/></svg>{i}</div>' for i in ids]
+        partes.append("</div>")
+    partes.append(RODAPE.format(n=total) + "</div>\n")
+    partes.append('<div class="folha">' + TOPO.format(titulo="Galeria de componentes", n=2))
+    partes.append(COMPONENTES + RODAPE.format(n=total) + "</div>\n</body></html>\n")
+    return "".join(partes), total
+
+
+def main():
+    if hasattr(sys.stdout, "reconfigure"):
+        sys.stdout.reconfigure(encoding="utf-8")
+    exemplos = Path(sys.argv[1]) if len(sys.argv) > 1 else REPO / "exemplos"
+    docs = Path(sys.argv[2]) if len(sys.argv) > 2 else REPO / "docs"
+    fonte, total = gerar_fonte()
+    (exemplos / "galeria-fonte.html").write_text(fonte, encoding="utf-8", newline="\n")
+    print(f"ok: galeria-fonte.html com {total} ilustrações")
+    py = sys.executable
+    subprocess.run([py, str(AQUI / "montar.py"), str(exemplos / "galeria-fonte.html"),
+                    str(exemplos / "galeria.html")], check=True)
+    with tempfile.TemporaryDirectory() as tmp:
+        subprocess.run([py, str(AQUI / "renderizar.py"), str(exemplos / "galeria.html"), tmp], check=True)
+        docs.mkdir(parents=True, exist_ok=True)
+        shutil.copy(Path(tmp) / "galeria-p1.png", docs / "galeria.png")
+        shutil.copy(Path(tmp) / "galeria-p2.png", docs / "galeria-componentes.png")
+    print(f"ok: {docs / 'galeria.png'} e {docs / 'galeria-componentes.png'}")
+
+
+if __name__ == "__main__":
+    main()
